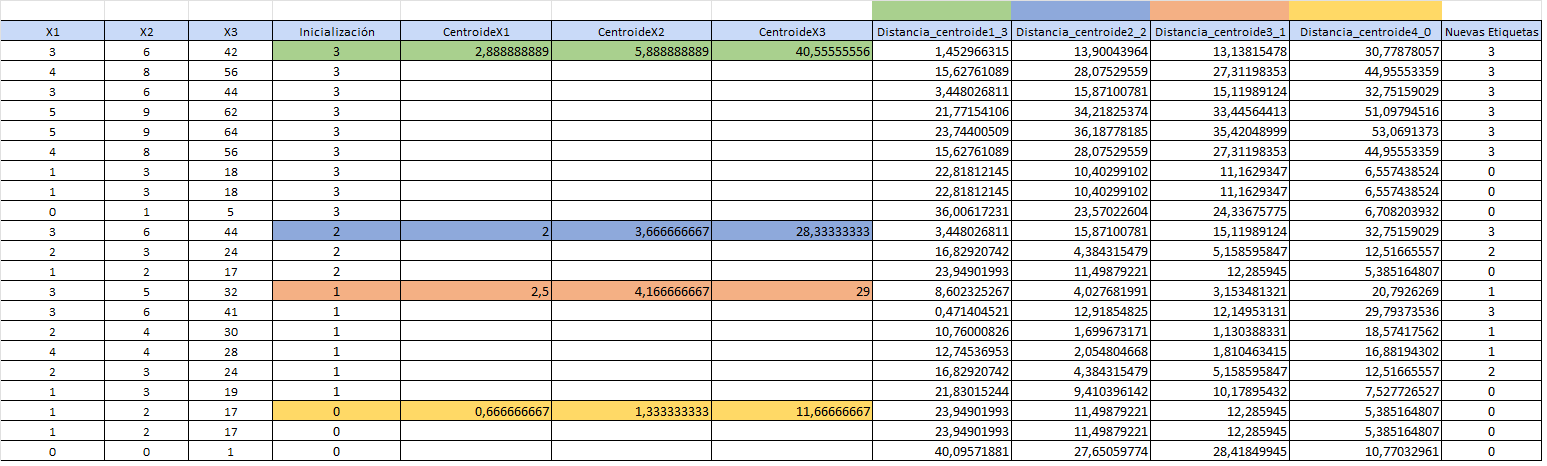
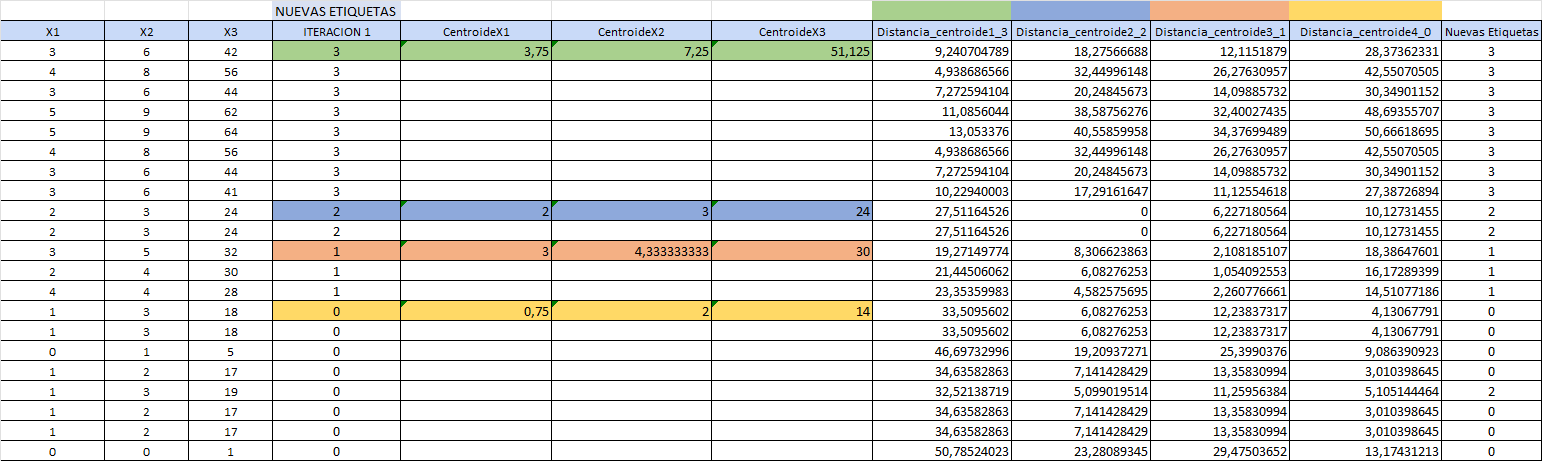
Update

diff --git a/Tarea1/doc/Punto1Solucion.md b/Tarea1/doc/Punto1Solucion.md
@@ -429,4 +429,41 @@ Lo primero que se debe realizar es generar 21 valores random entre 0 y 3, para d
 
 Se adjunta procedimiento realizado:
 
+**Iniciación**
+
+![KMiniciacion](https://github.com/MiguelRiosT/Estadistica3_2023-2/blob/main/Tarea1/doc/ImagenesEmpleadas/KMiniciacion.png)
+
+<br>
+
+**Iteración 1**
+
 ![KM1](https://github.com/MiguelRiosT/Estadistica3_2023-2/blob/main/Tarea1/doc/ImagenesEmpleadas/KM1.png)
+
+<br>
+
+**Iteración 2**
+
+![KM2](https://github.com/MiguelRiosT/Estadistica3_2023-2/blob/main/Tarea1/doc/ImagenesEmpleadas/KM2.png)
+
+<br>
+
+**Iteración 3**
+
+![KM3](https://github.com/MiguelRiosT/Estadistica3_2023-2/blob/main/Tarea1/doc/ImagenesEmpleadas/KM3.png)
+
+<br>
+
+**Iteración 4**
+
+![KM4](https://github.com/MiguelRiosT/Estadistica3_2023-2/blob/main/Tarea1/doc/ImagenesEmpleadas/KM4.png)
+
+<br>
+
+**Iteración 5**
+
+![KM5](https://github.com/MiguelRiosT/Estadistica3_2023-2/blob/main/Tarea1/doc/ImagenesEmpleadas/KM5.png)
+
+<br>
+
+**Convergencia**
+
